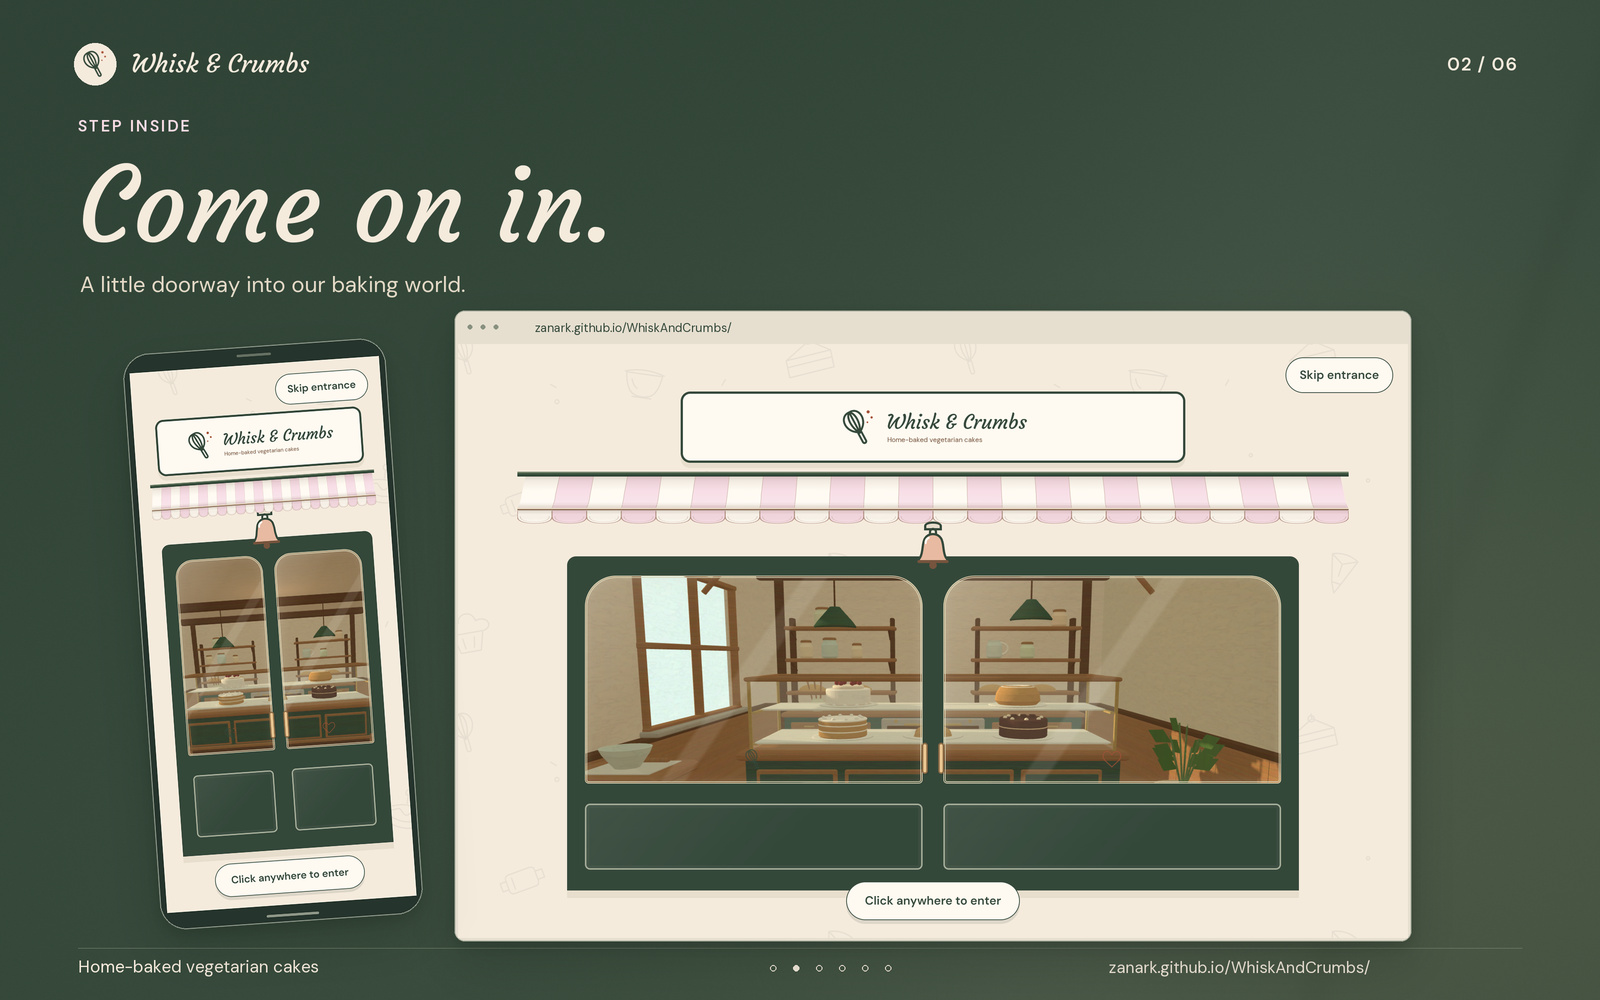
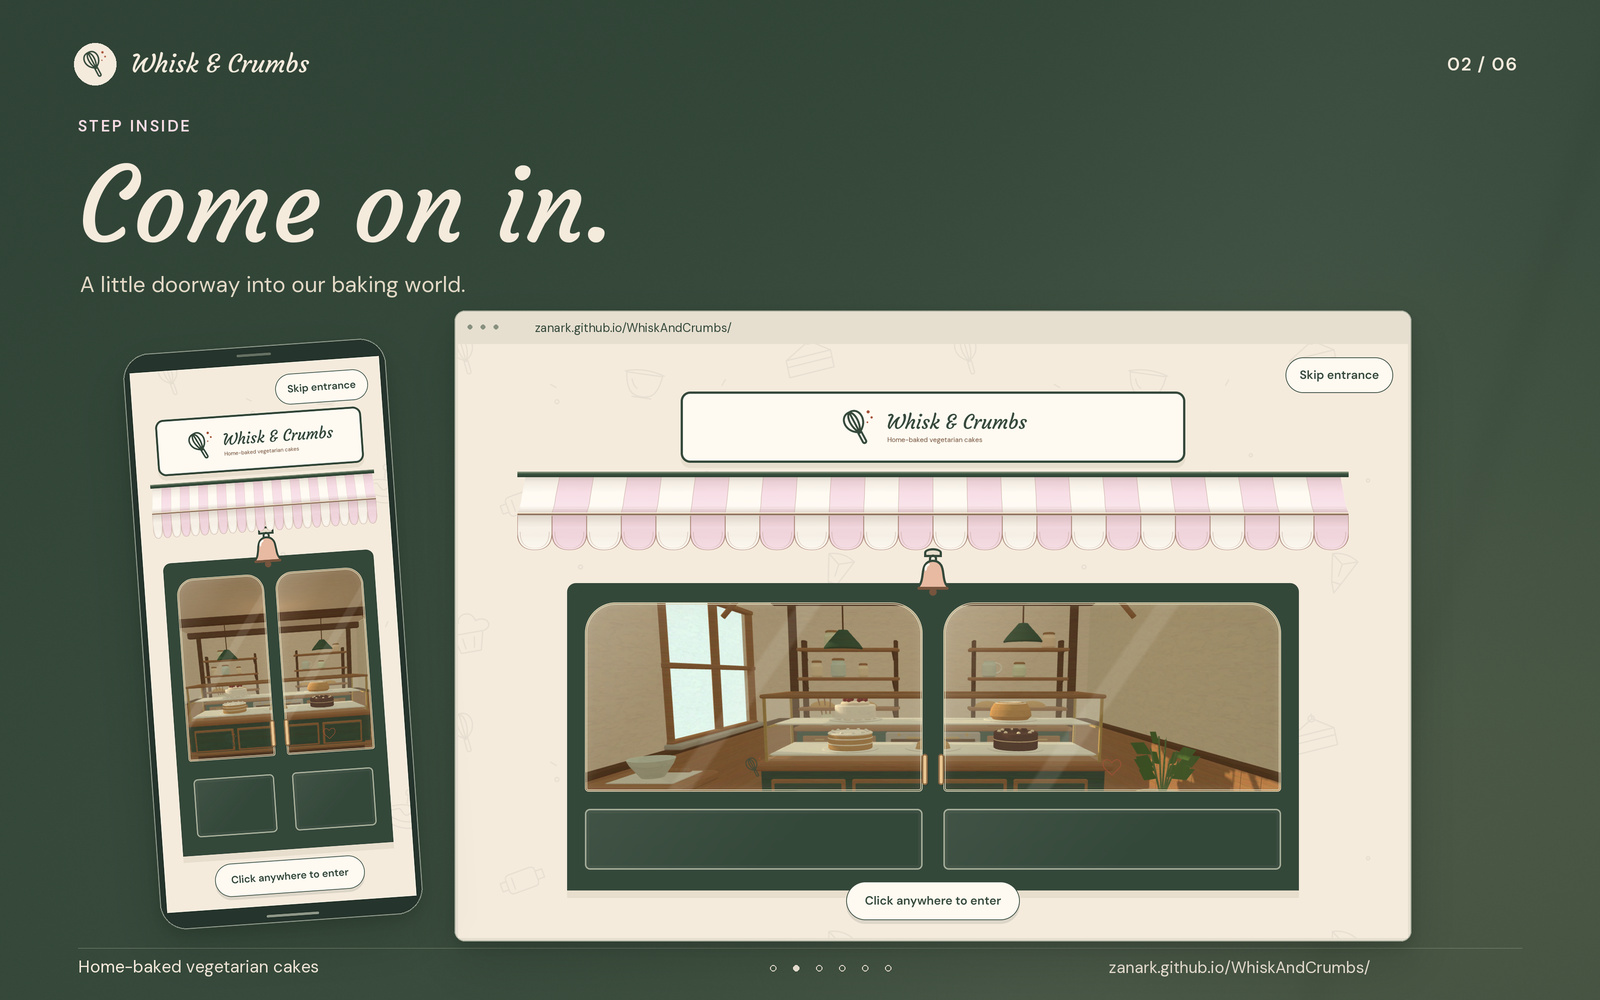
Lengthen the cloth roof and its scalloped hanging hem
Increase page and entrance awning height by 50 percent, extend the curved valance and align the fabric mesh with its new proportions. Preserve rigid rail rendering and refresh the welcome/entrance campaign images.

Copilot-Session: 065222f9-e445-4b98-a549-e6948580c174

Changed region(s): [[0.3125, 0.496, 0.8438, 0.806], [0.0938, 0.496, 0.25, 0.775]]

diff --git a/site/index.html b/site/index.html
@@ -22,14 +22,14 @@
   <link rel="icon" href="assets/favicon.svg" type="image/svg+xml" sizes="any">
   <link rel="apple-touch-icon" href="assets/apple-touch-icon.png" sizes="180x180">
   <link rel="preload" href="assets/fonts/courgette-regular.ttf" as="font" type="font/ttf" crossorigin>
-  <link rel="stylesheet" href="styles.css?v=3dc58f859194">
-  <link rel="stylesheet" href="entrance-shop.css?v=3dc58f859194">
-  <link rel="stylesheet" href="cozy-bakery.css?v=3dc58f859194">
-  <link rel="stylesheet" href="readability.css?v=3dc58f859194">
-  <link rel="modulepreload" href="entrance.mjs?v=3dc58f859194">
-  <link rel="modulepreload" href="bell.mjs?v=3dc58f859194">
-  <link rel="modulepreload" href="notebooks.mjs?v=3dc58f859194">
-  <script type="module" src="main.mjs?v=3dc58f859194"></script>
+  <link rel="stylesheet" href="styles.css?v=51ee2b822d42">
+  <link rel="stylesheet" href="entrance-shop.css?v=51ee2b822d42">
+  <link rel="stylesheet" href="cozy-bakery.css?v=51ee2b822d42">
+  <link rel="stylesheet" href="readability.css?v=51ee2b822d42">
+  <link rel="modulepreload" href="entrance.mjs?v=51ee2b822d42">
+  <link rel="modulepreload" href="bell.mjs?v=51ee2b822d42">
+  <link rel="modulepreload" href="notebooks.mjs?v=51ee2b822d42">
+  <script type="module" src="main.mjs?v=51ee2b822d42"></script>
 </head>
 <body>
   <a class="skip-link" href="#main">Skip to cakes and ordering</a>
@@ -40,7 +40,7 @@
         <div class="entrance-sign">
           <img src="assets/whisk-and-crumbs-logo.png" width="380" height="86" alt="">
         </div>
-        <div class="entrance-awning"><img src="assets/bakery-awning.svg?v=3dc58f859194" width="1200" height="180" alt="" decoding="async"></div>
+        <div class="entrance-awning"><img src="assets/bakery-awning.svg?v=51ee2b822d42" width="1200" height="240" alt="" decoding="async"></div>
         <div class="entrance-doorway">
           <div class="entrance-bell-mount"></div>
           <svg class="entrance-bell" viewBox="0 0 64 68" width="64" height="68" fill="none" focusable="false">
@@ -53,9 +53,9 @@
           <div class="entrance-doorframe">
             <div class="entrance-room">
               <picture class="entrance-room-poster">
-                <source media="(max-aspect-ratio: 4/5)" srcset="assets/bakery-interior-portrait.webp?v=3dc58f859194">
-                <source media="(max-height: 600px)" srcset="assets/bakery-interior-short.webp?v=3dc58f859194">
-                <img src="assets/bakery-interior-wide.webp?v=3dc58f859194" width="1600" height="1000" alt="" decoding="async">
+                <source media="(max-aspect-ratio: 4/5)" srcset="assets/bakery-interior-portrait.webp?v=51ee2b822d42">
+                <source media="(max-height: 600px)" srcset="assets/bakery-interior-short.webp?v=51ee2b822d42">
+                <img src="assets/bakery-interior-wide.webp?v=51ee2b822d42" width="1600" height="1000" alt="" decoding="async">
               </picture>
             </div>
             <div class="entrance-door entrance-door-left">
@@ -79,7 +79,7 @@
   </div>
   <noscript><style>.bakery-entrance { display: none !important; }</style></noscript>
   <header class="site-header">
-    <div class="shop-sign" style="--sign-wood:url('assets/bakery-sign-wood.webp?v=3dc58f859194')">
+    <div class="shop-sign" style="--sign-wood:url('assets/bakery-sign-wood.webp?v=51ee2b822d42')">
       <div class="container header-inner">
         <a class="brand" href="#home" aria-label="Whisk &amp; Crumbs - home">
           <img src="assets/whisk-and-crumbs-mark.svg" width="128" height="128" alt="">
@@ -93,7 +93,7 @@
       <a class="button nav-cta" href="#order">How to order</a>
     </nav>
   </header>
-  <div class="site-awning" aria-hidden="true"><img src="assets/bakery-awning.svg?v=3dc58f859194" width="1200" height="180" alt="" decoding="async"></div>
+  <div class="site-awning" aria-hidden="true"><img src="assets/bakery-awning.svg?v=51ee2b822d42" width="1200" height="240" alt="" decoding="async"></div>
 
   <main id="main" tabindex="-1">
     <section class="hero-section" id="home" aria-labelledby="hero-title">
@@ -651,7 +651,7 @@
         </div>
       </div>
     </section>
-    <div class="bakery-shelf" aria-hidden="true"><img src="assets/bakery-shelf.svg?v=3dc58f859194" width="960" height="120" alt="" loading="lazy" decoding="async"></div>
+    <div class="bakery-shelf" aria-hidden="true"><img src="assets/bakery-shelf.svg?v=51ee2b822d42" width="960" height="120" alt="" loading="lazy" decoding="async"></div>
   </main>
 
   <footer class="container site-footer">

diff --git a/site/entrance-shop.css b/site/entrance-shop.css
@@ -1,10 +1,11 @@
-.site-awning { --awning-fabric-ready: 1; position: relative; z-index: 1; width: 100%; height: clamp(80px, 12vw, 180px); background: var(--cream); pointer-events: none; }
+.site-awning { --awning-fabric-ready: 1; position: relative; z-index: 1; width: 100%; height: clamp(120px, 18vw, 270px); background: var(--cream); pointer-events: none; }
 .site-awning img { width: 100%; max-width: none; height: 100%; object-fit: fill; }
 .awning-fabric { position: absolute; inset: -20px 0; width: 100%; height: calc(100% + 40px); pointer-events: none; }
+.awning-fixed-rail { position: absolute; inset: 0; background-size: 100% 100%; background-repeat: no-repeat; pointer-events: none; }
 .site-awning.is-fabric-active > img { opacity: 0; }
 .entrance-sign { width: min(680px, 76%); padding: 9px 18px; border-width: 3px; border-radius: 13px; }
 .entrance-sign img { width: auto; max-width: 100%; height: clamp(44px, 9vh, 90px); margin-inline: auto; object-fit: contain; }
-.entrance-awning { width: 100%; height: clamp(44px, 9vh, 86px); margin-top: 12px; border: 0; border-radius: 0; background: none; position: relative; z-index: 4; }
+.entrance-awning { width: 100%; height: clamp(66px, 13.5vh, 129px); margin-top: 12px; border: 0; border-radius: 0; background: none; position: relative; z-index: 4; }
 .entrance-awning img { width: 100%; height: 100%; object-fit: fill; }
 .entrance-doorway { margin-top: 42px; }
 .entrance-bell-mount { top: -47px; }
@@ -25,13 +26,13 @@
 @media (max-width: 600px) {
   .entrance-sign { width: 92%; padding: 8px 10px; }
   .entrance-sign img { height: clamp(44px, 8vh, 66px); }
-  .entrance-awning { height: 57px; }
+  .entrance-awning { height: 85.5px; }
   .entrance-doorway { width: 94%; margin-top: 38px; }
   .entrance-glass { inset-inline: 7px; border-radius: 27px 27px 4px 4px; }
 }
 @media (max-height: 600px) {
   .entrance-sign img { height: 44px; }
-  .entrance-awning { height: 44px; margin-top: 9px; }
+  .entrance-awning { height: 66px; margin-top: 9px; }
   .entrance-doorway { margin-top: 32px; }
   .entrance-bell { width: 48px; height: 51px; left: calc(50% - 24px); top: -39px; }
   .entrance-bell-mount { top: -41px; }
@@ -43,6 +44,6 @@
   .site-awning, .bakery-entrance { display: none; }
 }
 @media (prefers-reduced-motion: reduce), (forced-colors: active) {
-  .awning-fabric { display: none !important; }
+  .awning-fabric, .awning-fixed-rail { display: none !important; }
   .site-awning.is-fabric-active > img { opacity: 1; }
 }

diff --git a/README.md b/README.md
@@ -1,6 +1,6 @@
-[![Our little corner is now online: real desktop and mobile views of the continuous wooden panel and raised, warmly backlit Whisk & Crumbs sign.](site/assets/showcase/01-welcome.jpg?v=145b7315a3f2)](https://zanark.github.io/WhiskAndCrumbs/)
+[![Our little corner is now online: real desktop and mobile views of the raised wooden sign and taller cloth roof with its deep scalloped hem.](site/assets/showcase/01-welcome.jpg?v=dc25ecaf41d2)](https://zanark.github.io/WhiskAndCrumbs/)
 
-[![Come on in: complete desktop and mobile browser views of the illustrated bakery entrance, presented on a warm forest-green background.](site/assets/showcase/02-bakery-entrance.jpg?v=167119ccf961)](https://zanark.github.io/WhiskAndCrumbs/)
+[![Come on in: complete desktop and mobile views of the bakery entrance beneath the taller striped canopy and longer hanging scallops.](site/assets/showcase/02-bakery-entrance.jpg?v=f54d5dead2d4)](https://zanark.github.io/WhiskAndCrumbs/)
 
 [![A little care in every layer: the genuine desktop story and mobile recipe-note view, with cream editorial typography and slim device framing.](site/assets/showcase/03-our-story.jpg?v=f5cb96f3bc5d)](https://zanark.github.io/WhiskAndCrumbs/#story)
 

diff --git a/ABOUT.md b/ABOUT.md
@@ -22,7 +22,7 @@ perspective. Mouse movement gives a much stronger look around the room while the
 outer storefront stays steady. Touch keeps a centered view, and static illustrations
 from the same room remain available without the graphics enhancement.
 This is decorative illustration, not a photograph of physical premises or an additional menu.
-A sloped striped canopy with a hanging scalloped edge frames the entrance.
+A taller sloped striped canopy with a deeper hanging scalloped edge frames the entrance.
 The matching awning beneath the website header spans the full page width,
 without inset side margins.
 On the main page, the fabric ripples locally near the cursor and flutters gently
